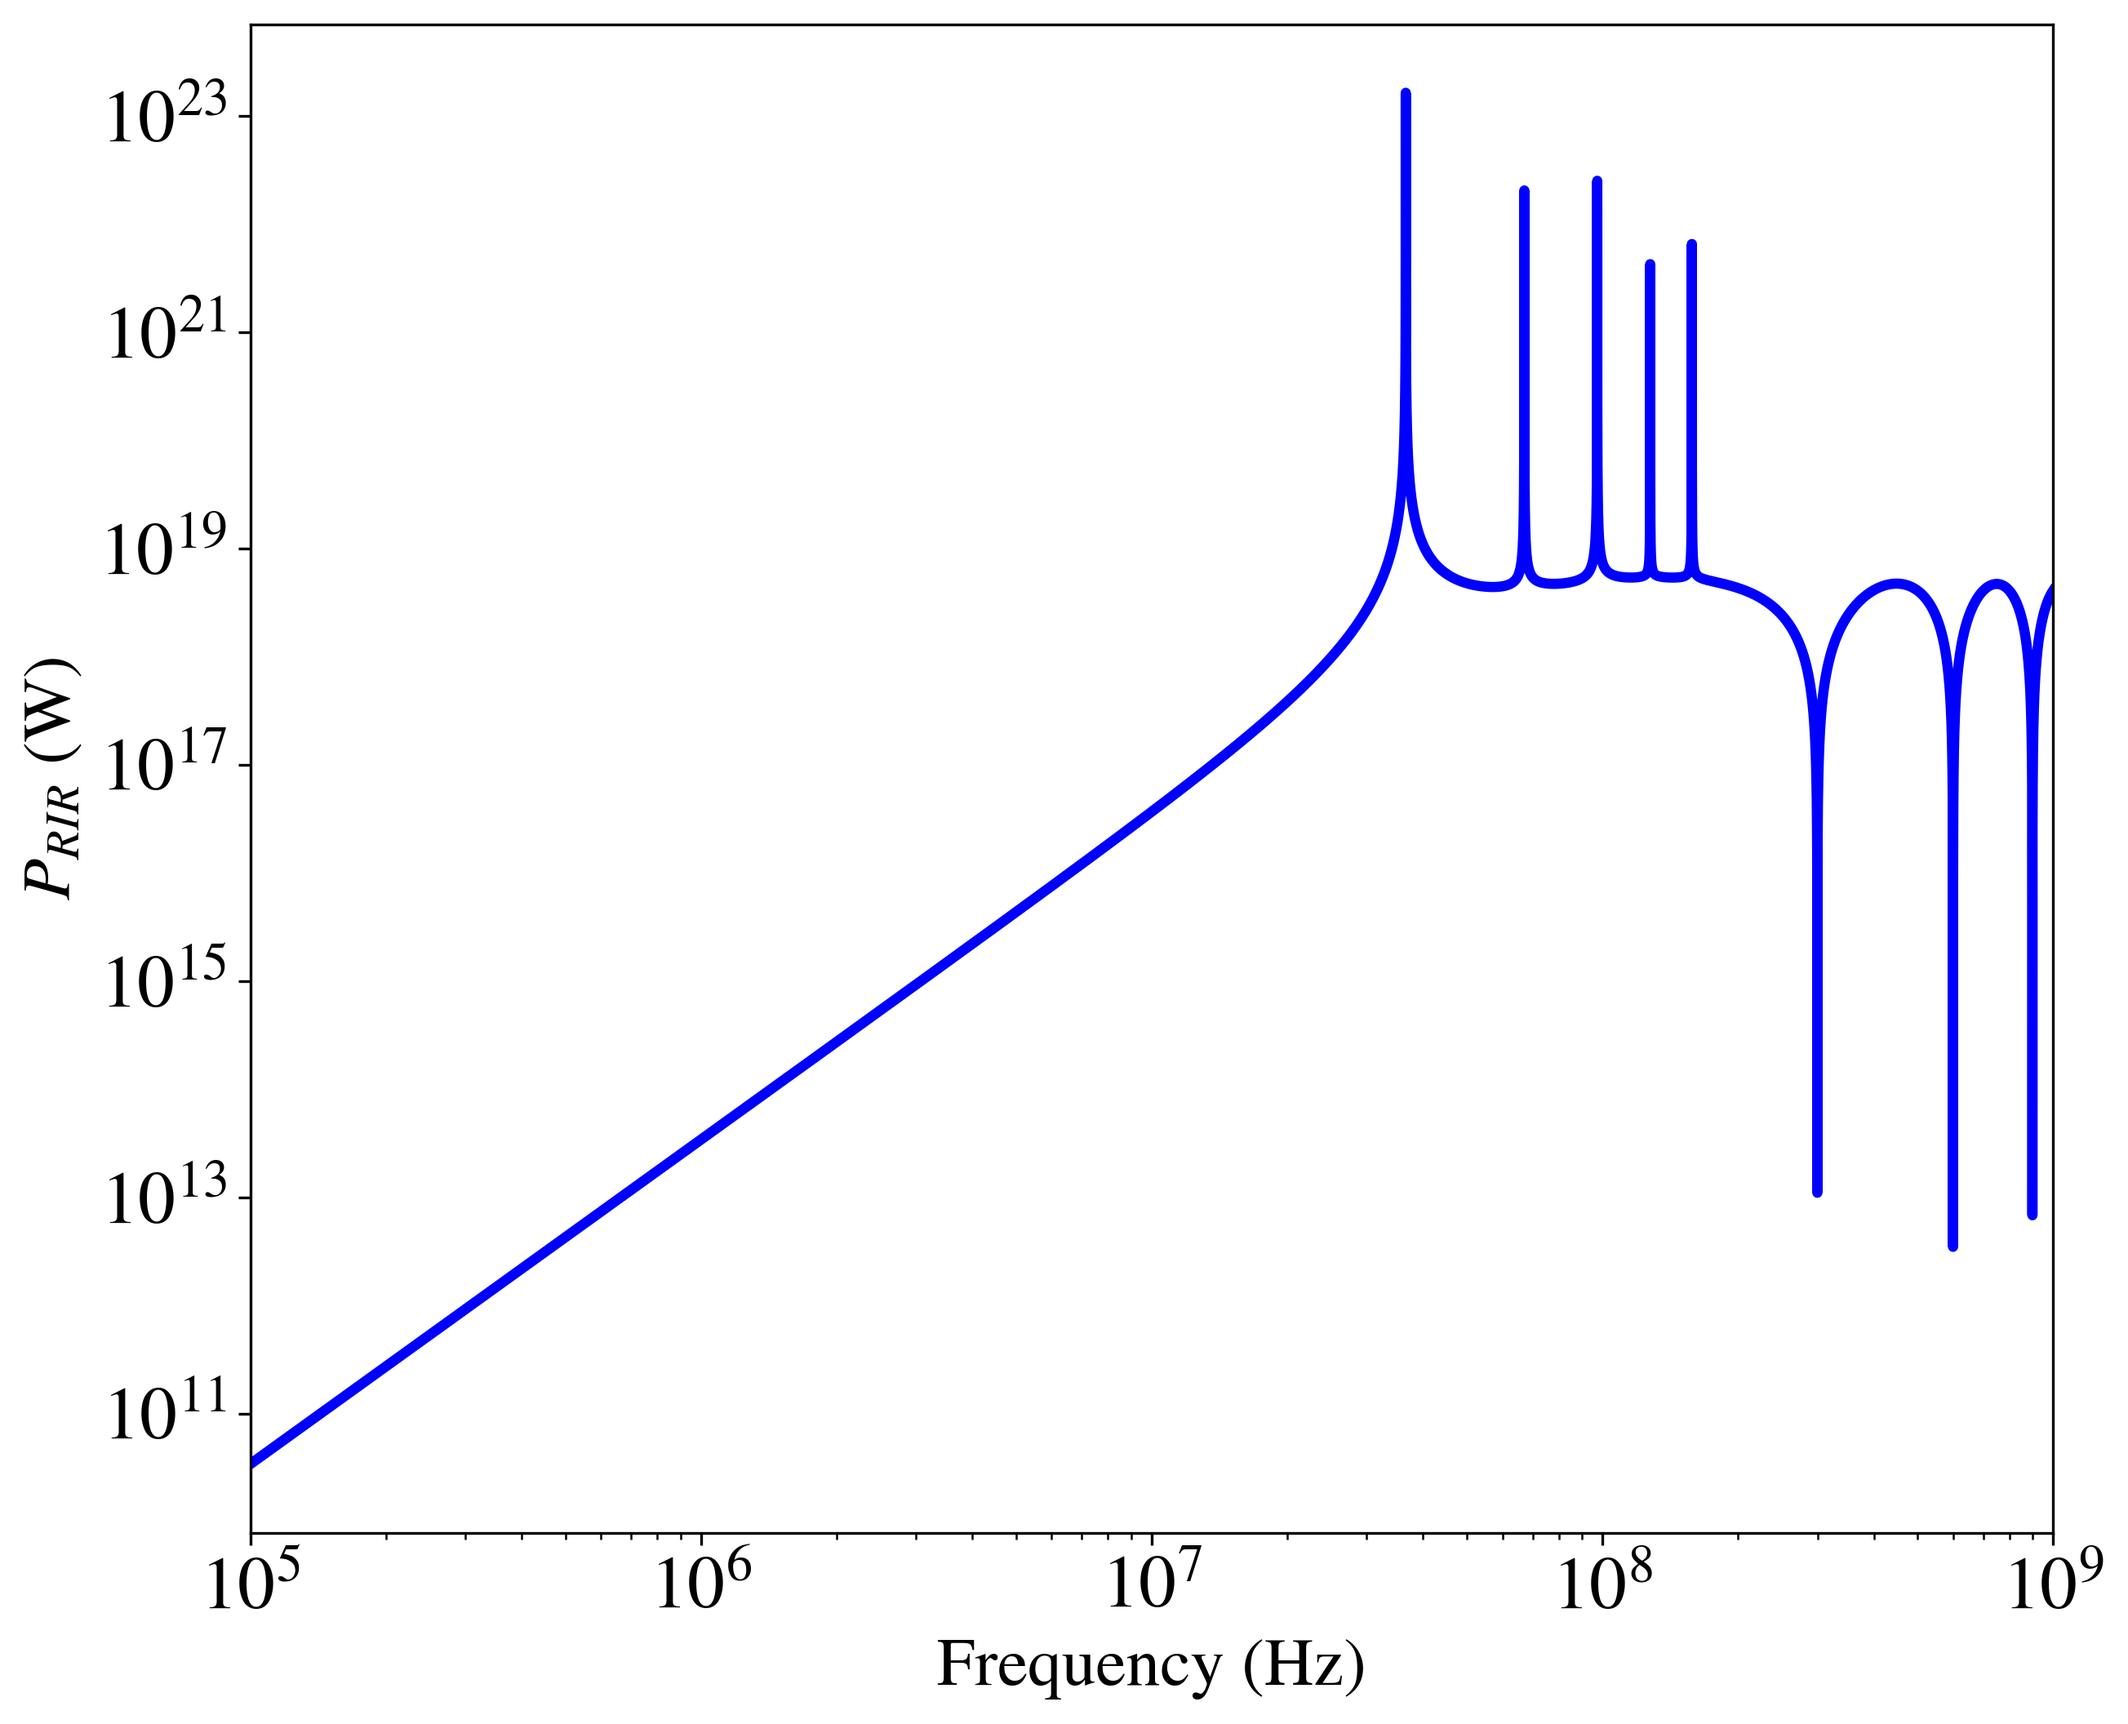
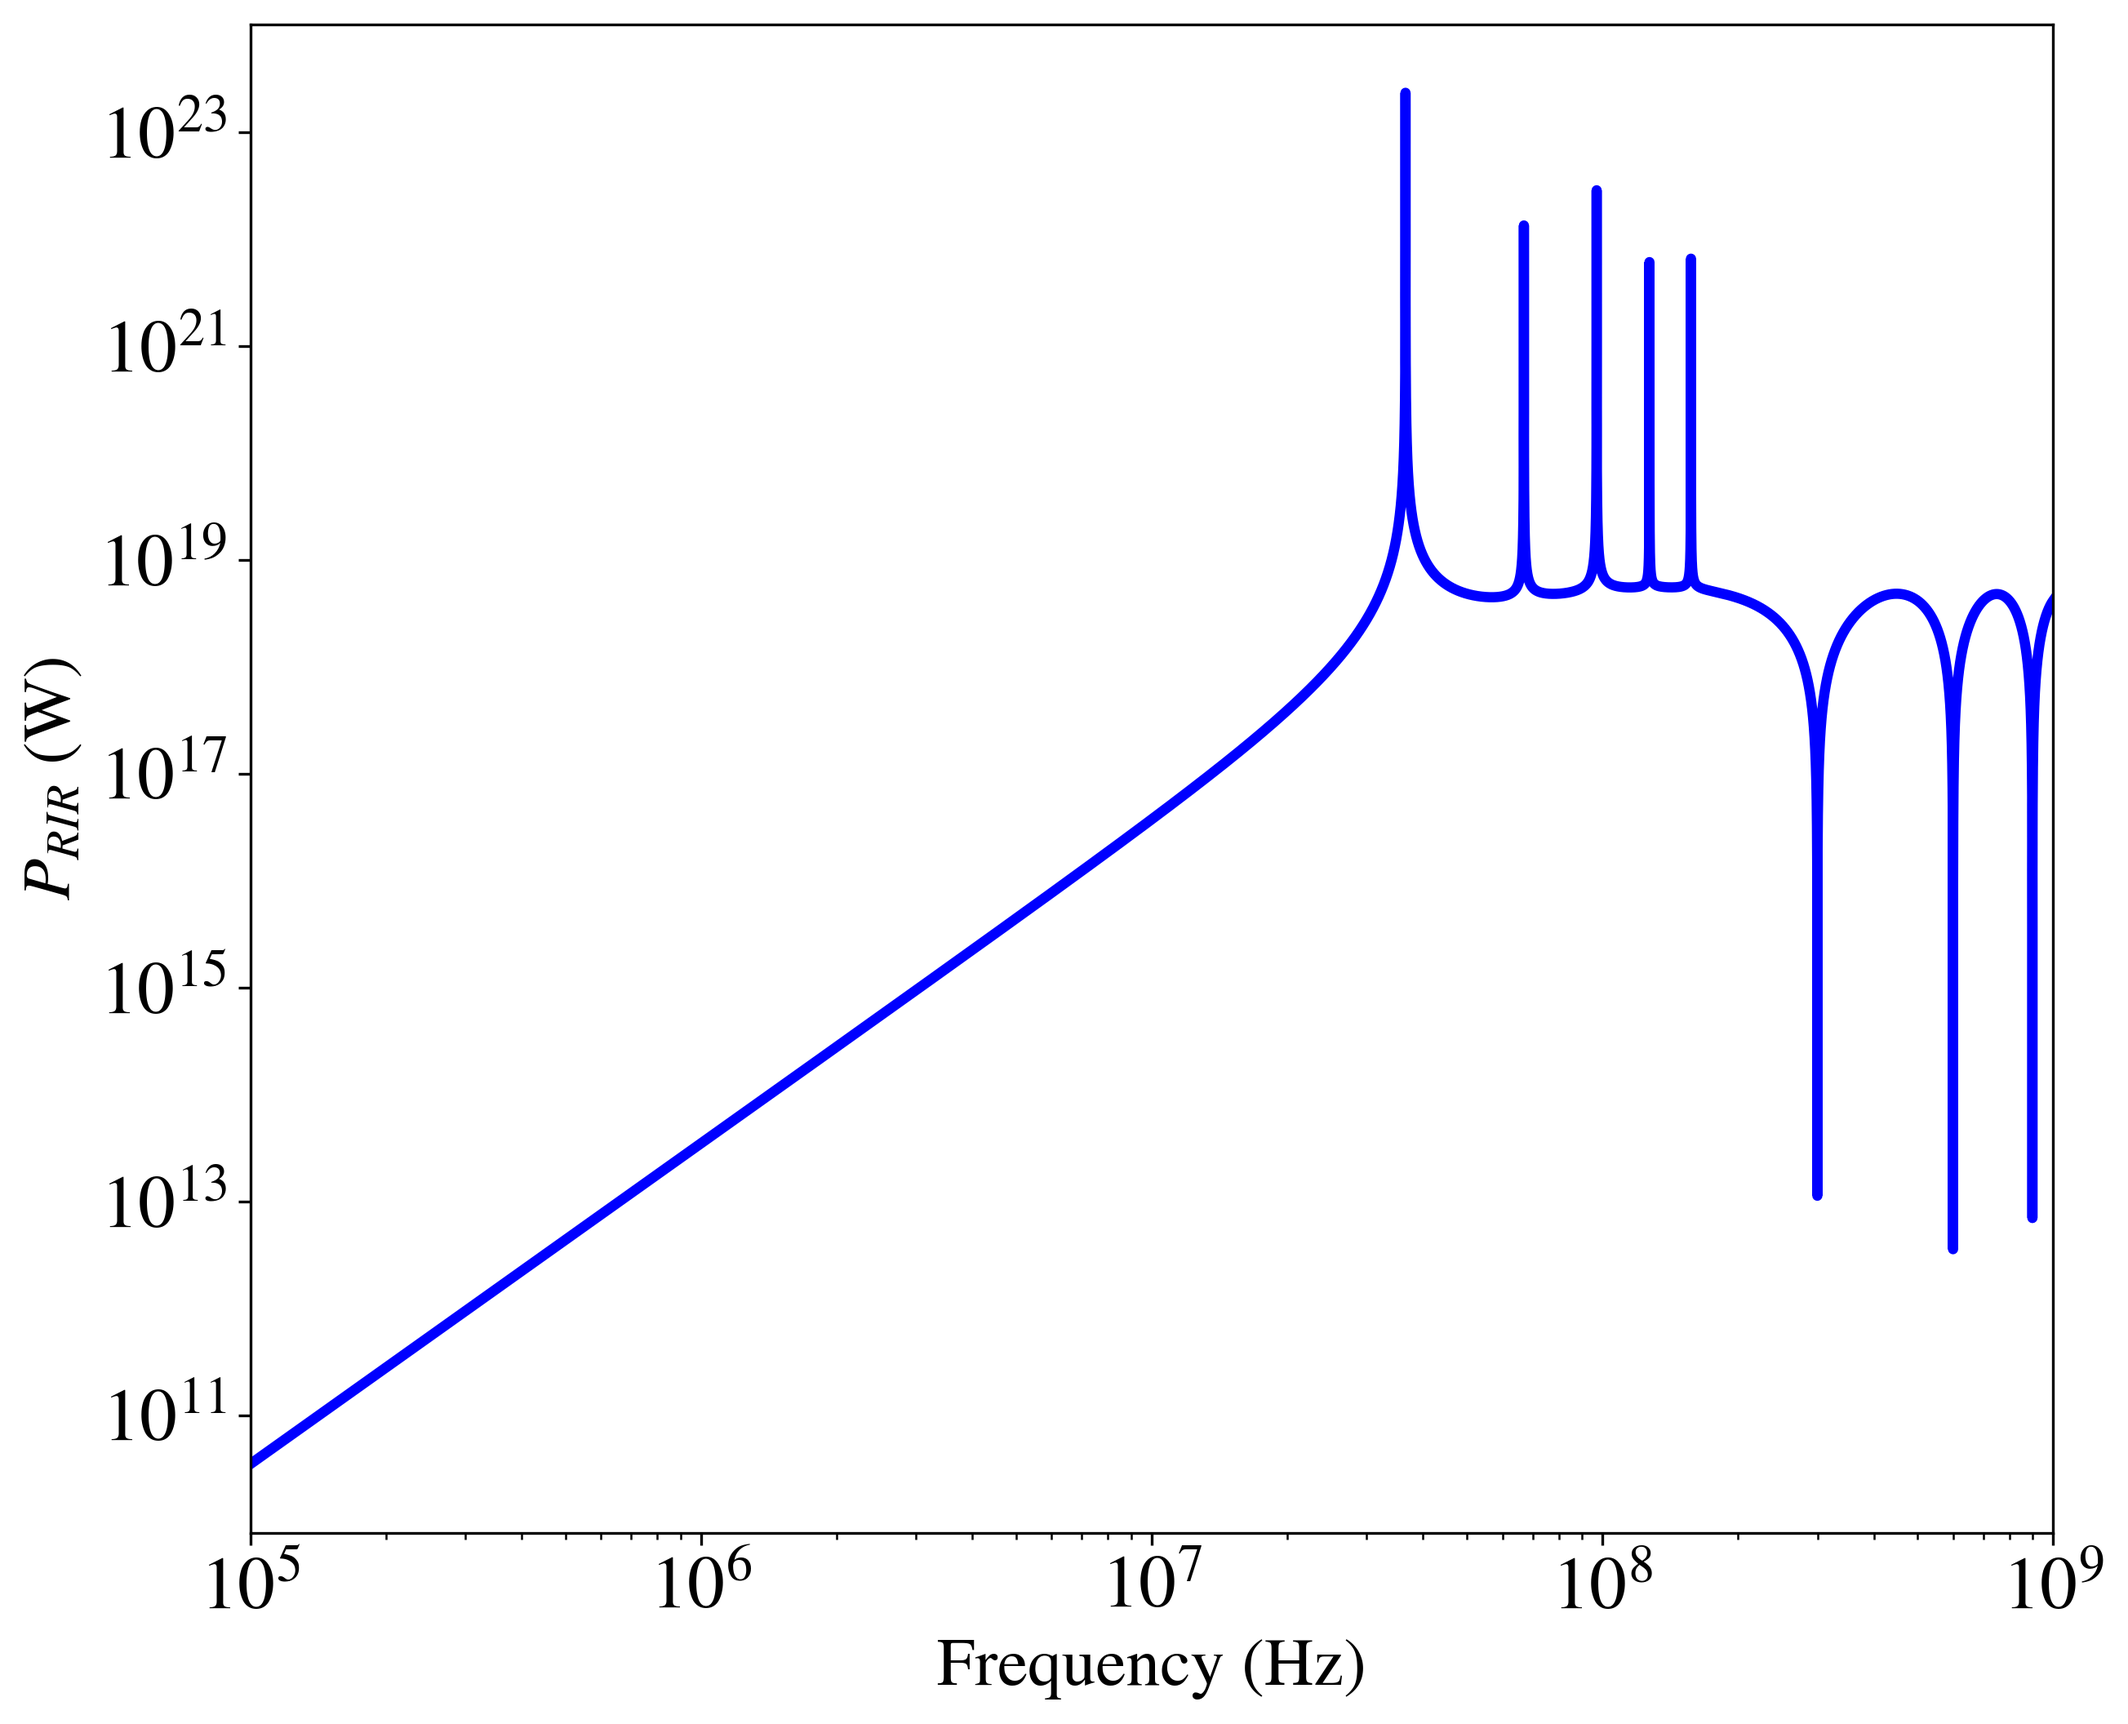
m:l;l

diff --git a/cavities.py b/cavities.py
@@ -63,7 +63,7 @@ def cav_parameters(cavity,K,l,Rmax,Rmin=0.1):
     elif(cavity=='TEM'):
         alist=alphaAk_Rk_EM(K,Rmax,Rmin); alpha_k=array(alist[:,0])/l; Ak=array(alist[:,1])
         Ik=(Ak-Ak*jv(0,alpha_k*Rmax)-yv(0,alpha_k*Rmax))/alpha_k-(Ak-Ak*jv(0,alpha_k*Rmin)-yv(0,alpha_k*Rmin))/alpha_k
-        norm=1/sqrt(2/l/pi/alpha_k**2/(Ak*jv(0,alpha_k*Rmax)+yv(0,alpha_k*Rmax))**2)
+        norm=1/sqrt(2/l/pi/alpha_k**2/(Ak**2*(jv(0,alpha_k*Rmax)**2)+(yv(0,alpha_k*Rmax)**2)))#-(Ak*jv(0,alpha_k*Rmin)+yv(0,alpha_k*Rmin))**2))
     return alpha_k.flatten(),Ik.flatten(),norm.flatten()
 
 def gw_binary_time_signal(M,dist,f_min,deltaT):

diff --git a/plot_pbh.py b/plot_pbh.py
@@ -3,6 +3,7 @@ from matplotlib import rcParams,ticker
 from matplotlib.pyplot import *
 from numpy import fft,pi
 import pickle
+from cavities import RMS_compute,fchirp
 
 rcParams["font.family"] = "serif"
 rcParams["font.weight"] = 500
@@ -33,6 +34,7 @@ with open('./SIMFREQM5D25TEM.pkl','rb') as f:  # Python 3: open(..., 'rb')
     f.close()
 
 figure(1)
+print(rmsP_t,rmsP_f,RMS_compute(fchirp,2200/25/M,2200/M,'TEM',5,M))
 ax1=subplot(1,2,1)
 plot(t,dP_t,'b')
 axis([0,6e-5,-5e-9,5e-9])

diff --git a/bode.py b/bode.py
@@ -43,7 +43,7 @@ plt.loglog(fplot,fct_bode(fplot,cavity,Rmax),'b')
 plt.xlim(1e5,1e9)
 plt.xlabel('Frequency (Hz)')
 plt.ylabel('$P_{RIR}$ (W)')
-plt.savefig("bodeTM.png")
+plt.savefig("bodeTEM.png")
 
 plt.figure()
 prmslim=1e-14
